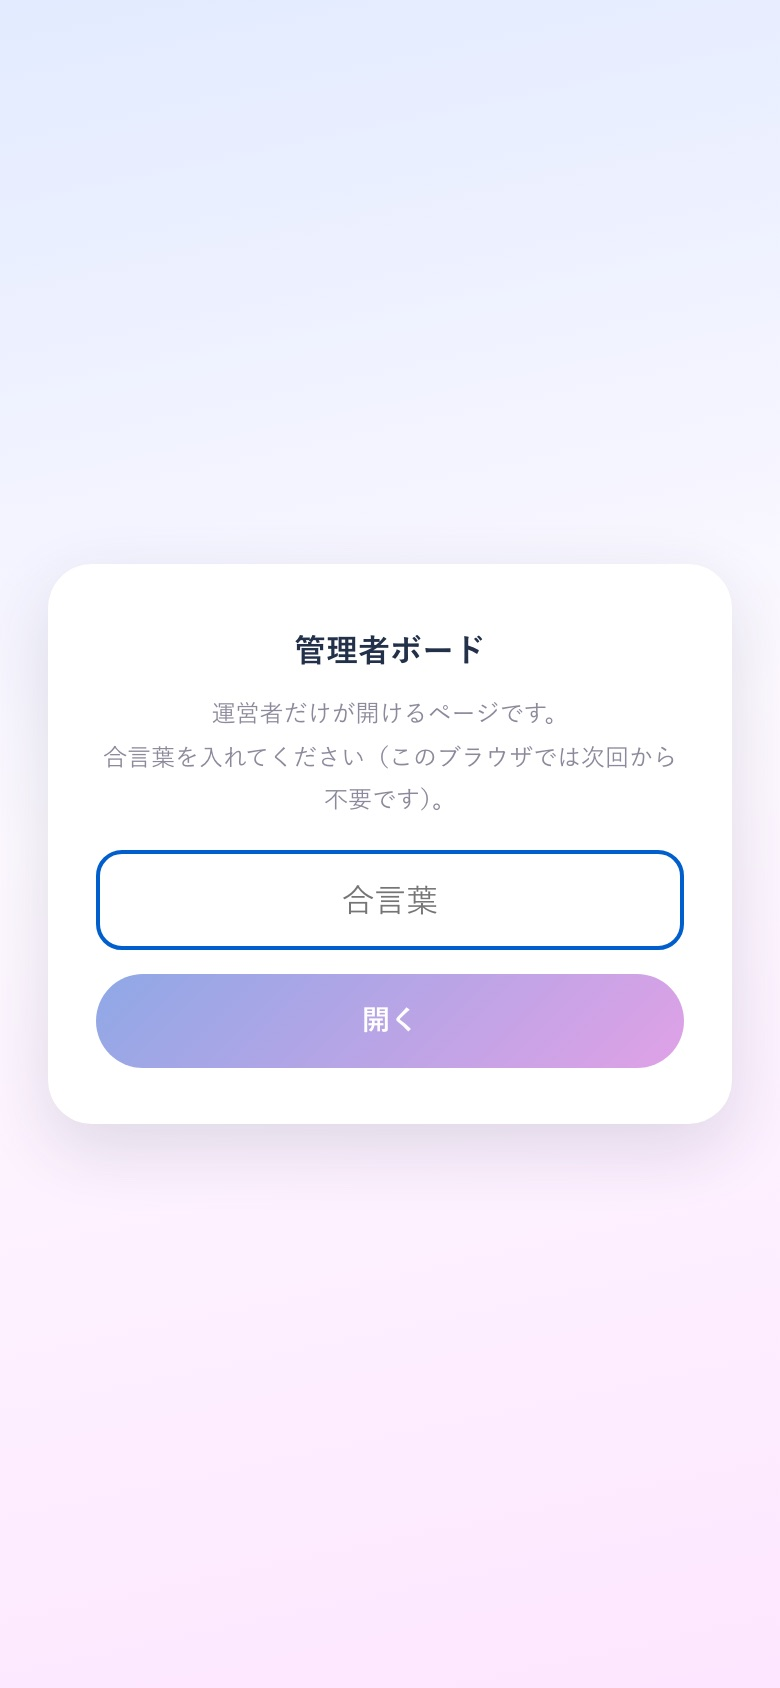
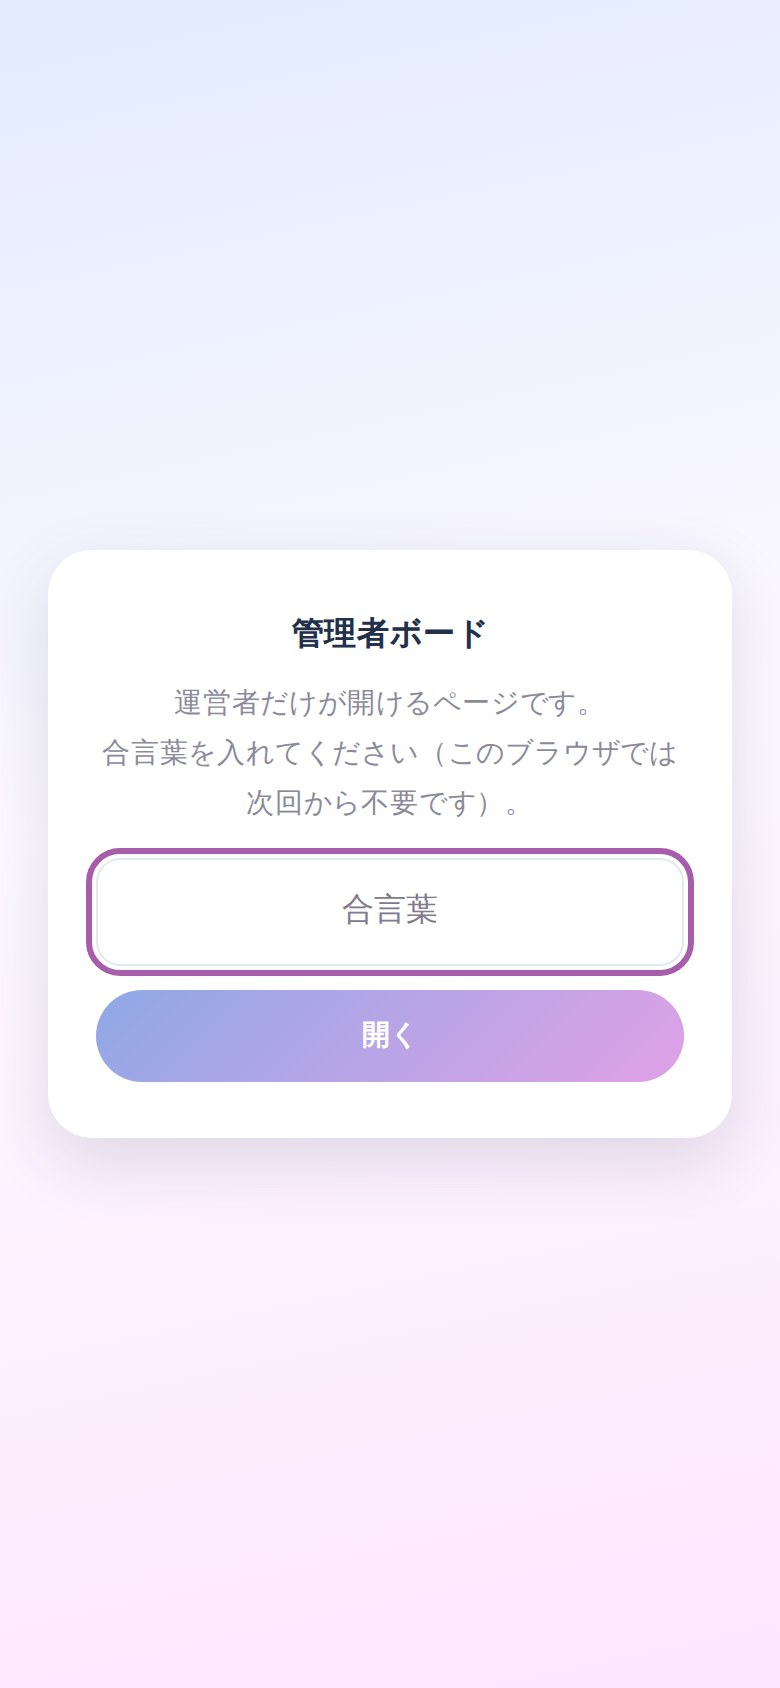
運営ガイドの全見本画像を新デザインへ更新し、画面全体を読みやすく表示

Changed region(s): [[0.0615, 0.3697, 0.9231, 0.6777]]

diff --git a/handover.html b/handover.html
@@ -181,8 +181,8 @@ footer{text-align:center; font-size:14px; color:var(--muted); margin:30px 0 10px
       <div class="row"><span class="num">3</span><span class="tx"><b>管理者ボードを開いて、合言葉で入れることを確かめる</b><span>上のURLを開くと、下の画面が出ます。合言葉は個別にお伝えします。一度入れれば、そのスマートフォンやパソコンでは次回から聞かれません。</span></span></div>
     </div>
     <div class="shots">
-      <div class="shot"><img loading="lazy" decoding="async" src="assets/guide/01_gate.jpg" alt="合言葉の画面"><div class="cap">③ 合言葉の画面<small>ここに合言葉を入れて「開く」を押します</small></div></div>
-      <div class="shot"><img loading="lazy" decoding="async" src="assets/guide/02_kanri_full.jpg" alt="管理者ボード全体" style="max-height:520px; object-fit:cover; object-position:top;"><div class="cap">開いた後の管理者ボード（スマートフォン）<small>最初に受信ボックスが開きます。上のメニューから、招待や学習の進捗へ移動できます</small></div></div>
+      <div class="shot"><img loading="lazy" decoding="async" src="assets/guide/01_gate.jpg?v=20260909-atelier" width="780" height="1688" alt="合言葉の画面"><div class="cap">③ 合言葉の画面<small>ここに合言葉を入れて「開く」を押します</small></div></div>
+      <div class="shot"><img loading="lazy" decoding="async" src="assets/guide/02_kanri_full.jpg?v=20260909-atelier" width="780" height="1688" alt="管理者ボード全体"><div class="cap">開いた後の管理者ボード（スマートフォン）<small>最初に受信ボックスが開きます。上のメニューから、招待や学習の進捗へ移動できます</small></div></div>
     </div>
     <div class="note"><b>これ以外の設定（人格の登録・自動化の登録・公開の設定）は、すべてMerone側で済んでいます。</b></div>
   </div>
@@ -199,9 +199,9 @@ footer{text-align:center; font-size:14px; color:var(--muted); margin:30px 0 10px
       </div>
     </div>
     <div class="shots">
-      <div class="shot"><img loading="lazy" decoding="async" src="assets/guide/03_inbox.jpg" alt="カルテ受信ボックス"><div class="cap">② 受信ボックス<small>受講生の方から届いたカルテが並びます。「カルテ受信ボックス」の「未対応」が、まだ返していない件数です</small></div></div>
-      <div class="shot"><img loading="lazy" decoding="async" src="assets/guide/04_approve_card.jpg" alt="承認して送信"><div class="cap">③④ 1件ずつ、下書きを読んで「承認して送信」<small>「AI下書き（編集できます）」と出ていれば、下書きが入っています。文章を直したい時は、枠の中をそのまま書き換えてから押してください</small></div></div>
-      <div class="shot wide"><img loading="lazy" decoding="async" src="assets/guide/08_student.jpg" alt="受講生の画面" style="max-height:420px; object-fit:cover; object-position:top;"><div class="cap">送ったあと、受講生の方の画面にはこう届きます<small>「はるかからのアドバイス」として表示されます。はるかさんが押すまで届きません</small></div></div>
+      <div class="shot"><img loading="lazy" decoding="async" src="assets/guide/03_inbox.jpg?v=20260909-atelier" width="780" height="1688" alt="カルテ受信ボックス"><div class="cap">② 受信ボックス<small>受講生の方から届いたカルテが並びます。「カルテ受信ボックス」の「未対応」が、まだ返していない件数です</small></div></div>
+      <div class="shot"><img loading="lazy" decoding="async" src="assets/guide/04_approve_card.jpg?v=20260909-atelier" width="696" height="1074" alt="承認して送信"><div class="cap">③④ 1件ずつ、下書きを読んで「承認して送信」<small>「AI下書き（編集できます）」と出ていれば、下書きが入っています。文章を直したい時は、枠の中をそのまま書き換えてから押してください</small></div></div>
+      <div class="shot wide"><img loading="lazy" decoding="async" src="assets/guide/08_student.jpg?v=20260909-atelier" width="780" height="1688" alt="受講生の画面"><div class="cap">送ったあと、受講生の方の画面にはこう届きます<small>「はるかからのアドバイス」として表示されます。はるかさんが押すまで届きません</small></div></div>
     </div>
     <ul class="ilist">
       <li>直して送っていただくと、その直し方を次回の下書きが学習します。そのまま送っても問題ありません</li>
@@ -244,8 +244,8 @@ footer{text-align:center; font-size:14px; color:var(--muted); margin:30px 0 10px
       <div class="row"><span class="num">3</span><span class="tx"><b>受講生の方は、入口で名前とメールアドレスを入れて、自分の専用ページを作ります</b><span>専用ページから困りごとを書くと、はるかさんの受信ボックスに届きます</span></span></div>
     </div>
     <div class="shots">
-      <div class="shot"><img loading="lazy" decoding="async" src="assets/guide/05_invite.jpg" alt="参加者の招待"><div class="cap">① 管理者ボードの「参加者の招待」<small>「全員向けの案内文をコピー」を押すと案内文がコピーされます</small></div></div>
-      <div class="shot"><img loading="lazy" decoding="async" src="assets/guide/07_start.jpg" alt="受講生の入口" style="max-height:420px; object-fit:cover; object-position:top;"><div class="cap">③ 受講生の方が見る入口<small>名前とメールアドレスを入れると専用ページができます</small></div></div>
+      <div class="shot"><img loading="lazy" decoding="async" src="assets/guide/05_invite.jpg?v=20260909-atelier" width="780" height="1688" alt="参加者の招待"><div class="cap">① 管理者ボードの「参加者の招待」<small>「全員向けの案内文をコピー」を押すと案内文がコピーされます</small></div></div>
+      <div class="shot"><img loading="lazy" decoding="async" src="assets/guide/07_start.jpg?v=20260909-atelier" width="780" height="1688" alt="受講生の入口"><div class="cap">③ 受講生の方が見る入口<small>名前とメールアドレスを入れると専用ページができます</small></div></div>
     </div>
   </div>
 
@@ -261,8 +261,8 @@ footer{text-align:center; font-size:14px; color:var(--muted); margin:30px 0 10px
       </div>
     </div>
     <div class="shots">
-      <div class="shot"><img loading="lazy" decoding="async" src="assets/guide/09_bugreport.jpg" alt="不具合を報告" style="max-height:420px; object-fit:cover; object-position:center;"><div class="cap">どのページにもある「不具合を報告」<small>受講画面は「設定」から、ガイドはページ下部から開けます。受講生の方も、はるかさんも使えます</small></div></div>
-      <div class="shot"><img loading="lazy" decoding="async" src="assets/guide/06_bugbox.jpg" alt="バグ報告欄" style="max-height:420px; object-fit:cover; object-position:top;"><div class="cap">管理者ボードの「バグ報告」欄<small>届いた報告と、対応済みかどうかが見えます</small></div></div>
+      <div class="shot"><img loading="lazy" decoding="async" src="assets/guide/09_bugreport.jpg?v=20260909-atelier" width="780" height="1688" alt="不具合を報告"><div class="cap">どのページにもある「不具合を報告」<small>受講画面は「設定」から、ガイドはページ下部から開けます。受講生の方も、はるかさんも使えます</small></div></div>
+      <div class="shot"><img loading="lazy" decoding="async" src="assets/guide/06_bugbox.jpg?v=20260909-atelier" width="780" height="1688" alt="バグ報告欄"><div class="cap">管理者ボードの「バグ報告」欄<small>届いた報告と、対応済みかどうかが見えます</small></div></div>
     </div>
     <ul class="ilist">
       <li>はっきりした不具合（ボタンが押せない・表示が崩れる など）は自動で直ります。直ったら「対応済み」に変わります</li>

diff --git a/ui-atelier.css b/ui-atelier.css
@@ -163,6 +163,8 @@ body.atelier{background:#f0f4ff;color:var(--atelier-ink);font-family:"Hiragino S
 .page-handover.atelier .shots{gap:24px;margin-top:24px;align-items:start}
 .page-handover.atelier .shot{min-width:0;background:#fff;border:1px solid #e4dced;border-radius:12px;padding:12px;box-shadow:0 3px 12px #a75da906}
 .page-handover.atelier .shot img{border:1px solid #e4dced;border-radius:6px}
+.page-handover.atelier .shot.wide{display:grid;grid-template-columns:minmax(0,360px) minmax(0,1fr);gap:24px;align-items:center}
+@media(max-width:560px){.page-handover.atelier .shot.wide{grid-template-columns:1fr;gap:0}}
 .page-handover.atelier .shot .cap{font-size:14px;font-weight:600;color:#66526f;margin:14px 4px 4px;line-height:1.85}
 .page-handover.atelier .shot .cap small{font-size:12px;color:#75647f;line-height:1.9;margin-top:6px}
 .page-handover.atelier .bigurl{background:#fde6ff60;color:#66526f;border:1px solid #e5cfeb;border-radius:12px;padding:24px;margin-top:24px;text-align:left}
